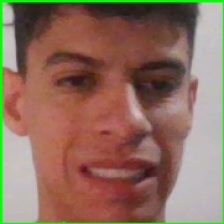
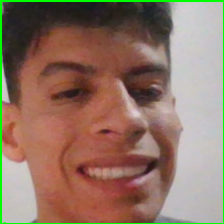
torch model tested and working

diff --git a/src/ai/torch/nn_eval.py b/src/ai/torch/nn_eval.py
@@ -1,5 +1,12 @@
-import tensorflow as tf
-from tensorflow import keras
+import os
+import torch
+import torch.nn.functional as F
+from torch import nn, optim
+from PIL import Image
+
+from torch.optim import lr_scheduler
+from torchvision import transforms, models, datasets, utils
+
 import numpy as np
 import logging
 
@@ -7,15 +14,40 @@ logging.basicConfig(level=logging.INFO, format='%(asctime)s - %(levelname)s - %(
 
 class EmotionDetection:
     def __init__(self, class_names):
+        self.ARCH_NAME = 'resnet18'
         self.class_names = class_names
+        self.device = torch.device('cuda' if torch.cuda.is_available() else 'cpu')
+        
+        self.model = models.resnet18(pretrained=True).to(self.device)
+        num_ftrs = self.model.fc.in_features
+        self.model.fc = nn.Linear(num_ftrs, 5).to(self.device)
+        
+        self.data_transform = transforms.Compose([
+          # It is necessary to resize the image to match the network's input size.
+          transforms.Resize(230),
+          transforms.CenterCrop(224),
+          transforms.ToTensor(),
+          # Mean and standard deviation of ImageNet
+          # These are required as we will use a model pre-trained on ImageNet.
+          transforms.Normalize([0.485, 0.456, 0.406], [0.229, 0.224, 0.225])
+        ])
     
     def load(self, path):
         '''
         Load keras model weights in .h5 format
         '''
-        self.model = tf.keras.models.load_model(path)
+        self.model.load_state_dict(
+          torch.load(os.path.join(path, f"fer-classification-{self.ARCH_NAME}-model.pth"), map_location='cpu')
+          )
+        
+        self.model.to(self.device)
         logging.info('Model Load successfuly!')
+        
         return self.model
+      
+    def transform(self, pil_image):
+      transformed_image = self.data_transform(pil_image)
+      return transformed_image
     
     def make_predictions(self, image_array, model):
         '''
@@ -26,10 +58,17 @@ class EmotionDetection:
         return class name prediction and accuracy
         '''
         logging.info("Start Prediction...")
-        predictions = model.predict(image_array)[0]
-        predicted_index = np.argmax(predictions)
-        predicted_class = self.class_names[predicted_index]
-        confidence = float(predictions[predicted_index])
-        confidence = round(confidence, 2)
+        pil_image = Image.fromarray(image_array)
+        transformed_image = self.data_transform(pil_image)
+        input_tensor = transformed_image.unsqueeze(0)
+        input_tensor = input_tensor.to(self.device)
+        
+        model.eval()
+        with torch.no_grad():
+            output = self.model(input_tensor)
+            predicted_index = torch.argmax(output, dim=1).item()
+            print(output)
+        
         logging.info("Return Prediction!")
-        return [predicted_class, confidence]
+        return [self.class_names[predicted_index], predicted_index]
+  

diff --git a/src/main.py b/src/main.py
@@ -5,7 +5,8 @@ import os
 
 from dotenv import load_dotenv
 
-from ai.keras.ml_classifier import EmotionDetection
+# from ai.keras.ml_classifier import EmotionDetection
+from ai.torch.nn_eval import EmotionDetection
 from ai.keras.utils import crop_face
 from ai.keras.utils import image_preprocessing
 from ai.keras.utils import save_image
@@ -41,7 +42,8 @@ x1, y1 = 300, 400
 font = cv2.FONT_HERSHEY_SIMPLEX
 
 # model path
-model_path = "../model/model-26-0.7175.h5"
+# model_path = "../model/model-26-0.7175.h5"
+model_path = "../model/"
 
 # Machine Learning Model class
 CLASS_NAMES = ["angry", "fear", "happy", "neutral", "sad"]
@@ -75,10 +77,10 @@ while True:
         text_pos_y = y + h + 20
 
         face_image_crop = crop_face(frame=frame, pos=pos, dim=dim)
-        image_array = image_preprocessing(face_image_crop)
+        # image_array = image_preprocessing(face_image_crop)
 
         start_time = time.time()
-        class_name, confidence = emd.make_predictions(image_array, model)
+        class_name, confidence = emd.make_predictions(face_image_crop, model)
         
         if confidence >= 0.85:
             db.add_emotion(class_name, confidence)  
